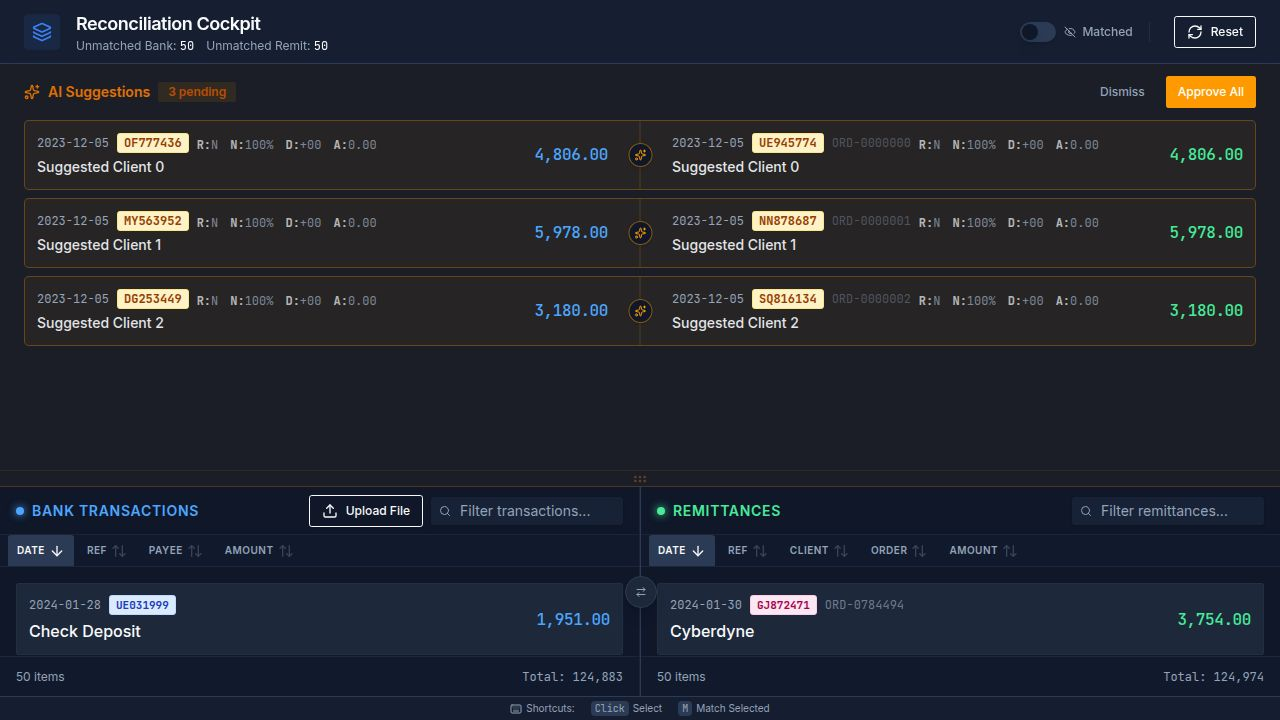
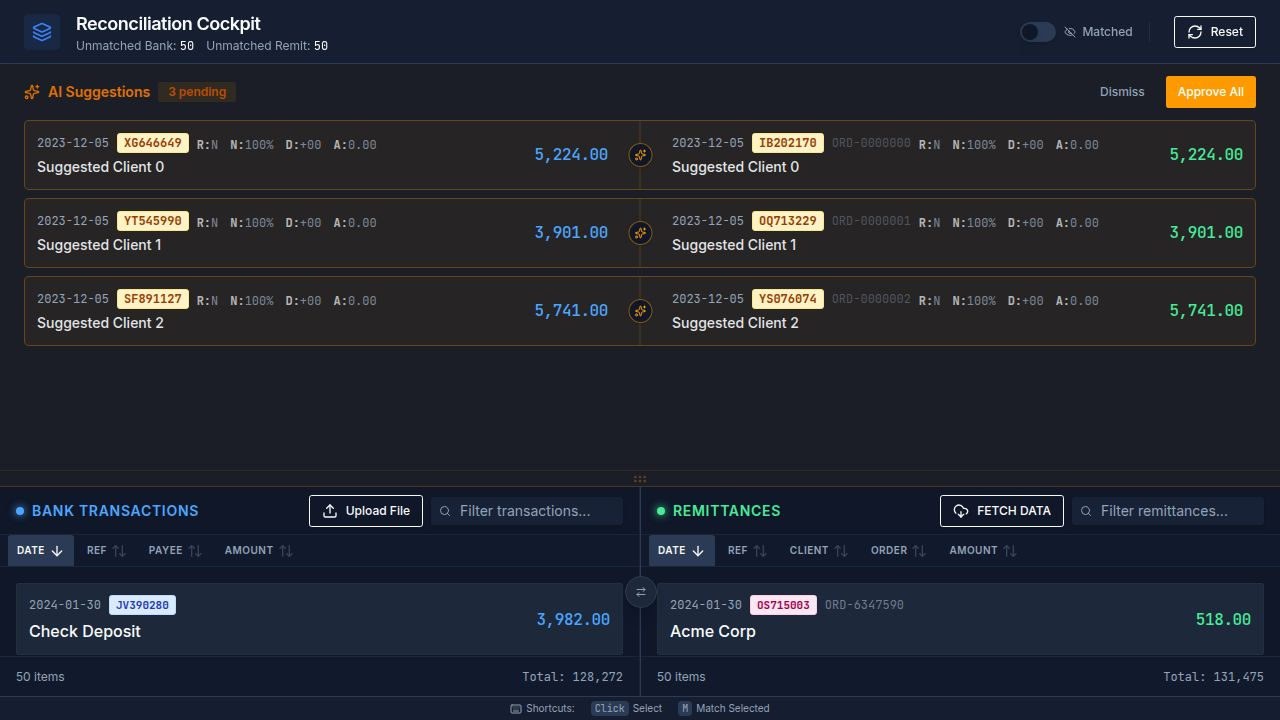
Add a fetch data button with a 10-minute cooldown to remittances
Introduce a "FETCH DATA" button to the Remittances panel with a 10-minute cooldown, displaying a countdown timer and greyed out when inactive.

Replit-Commit-Author: Agent
Replit-Commit-Session-Id: 8f953d1d-8566-4fc2-8cf3-e9aa65790888
Replit-Commit-Checkpoint-Type: full_checkpoint
Replit-Commit-Event-Id: df2b809c-4940-4540-8eb2-ee13a49f935e
Replit-Commit-Screenshot-Url: https://storage.googleapis.com/screenshot-production-us-central1/7ce41716-fa3b-479a-b889-b6a6f0201227/8f953d1d-8566-4fc2-8cf3-e9aa65790888/Y9Aho3F
Replit-Helium-Checkpoint-Created: true

diff --git a/client/src/pages/reconciliation.tsx b/client/src/pages/reconciliation.tsx
@@ -1,6 +1,6 @@
 import React, { useState, useMemo, useEffect, useCallback } from 'react';
 import { motion, AnimatePresence } from 'framer-motion';
-import { Search, ArrowRightLeft, X, RefreshCw, Layers, Keyboard, Eye, EyeOff, CheckCircle2, ArrowUpDown, ArrowUp, ArrowDown, Sparkles, Check, ThumbsUp, ThumbsDown, XCircle, History, GripHorizontal, Unlink, Upload } from 'lucide-react';
+import { Search, ArrowRightLeft, X, RefreshCw, Layers, Keyboard, Eye, EyeOff, CheckCircle2, ArrowUpDown, ArrowUp, ArrowDown, Sparkles, Check, ThumbsUp, ThumbsDown, XCircle, History, GripHorizontal, Unlink, Upload, DownloadCloud } from 'lucide-react';
 import { generateMockData, BankTransaction, Remittance } from '../lib/mockData';
 import { cn } from '@/lib/utils';
 import { Button } from '@/components/ui/button';
@@ -488,6 +488,36 @@ export default function ReconciliationPage() {
   const [suggestionsHeight, setSuggestionsHeight] = useState(350);
   const [isResizingSuggestions, setIsResizingSuggestions] = useState(false);
 
+  // Fetch Data Button State
+  const [fetchDataCooldown, setFetchDataCooldown] = useState<number | null>(null);
+
+  useEffect(() => {
+    if (fetchDataCooldown === null) return;
+
+    if (fetchDataCooldown <= 0) {
+      setFetchDataCooldown(null);
+      return;
+    }
+
+    const timer = setInterval(() => {
+      setFetchDataCooldown(prev => (prev !== null && prev > 0 ? prev - 1 : null));
+    }, 1000);
+
+    return () => clearInterval(timer);
+  }, [fetchDataCooldown]);
+
+  const handleFetchData = () => {
+    // Start 10 minute cooldown (600 seconds)
+    setFetchDataCooldown(600);
+    // Logic to actually fetch data would go here
+  };
+
+  const formatCooldown = (seconds: number) => {
+    const mins = Math.floor(seconds / 60);
+    const secs = seconds % 60;
+    return `${mins}:${secs.toString().padStart(2, '0')}`;
+  };
+
   useEffect(() => {
     if (!isResizingSuggestions) return;
 
@@ -935,14 +965,35 @@ export default function ReconciliationPage() {
           <div className="h-12 border-b border-border/40 flex items-center px-4 gap-2 bg-background/50">
              <div className="w-2 h-2 rounded-full bg-remit shadow-[0_0_8px_var(--color-remit)]" />
              <span className="text-sm font-semibold text-remit uppercase tracking-wider whitespace-nowrap">Remittances</span>
-             <div className="ml-auto relative w-48">
-                <Search className="absolute left-2 top-1/2 -translate-y-1/2 w-3 h-3 text-muted-foreground" />
-                <Input 
-                  className="h-7 text-xs pl-7 bg-muted/30 border-transparent focus:bg-background" 
-                  placeholder="Filter remittances..." 
-                  value={remitFilter}
-                  onChange={(e) => setRemitFilter(e.target.value)}
-                />
+             <div className="ml-auto flex items-center gap-2">
+                <Button 
+                  size="sm" 
+                  variant={fetchDataCooldown !== null ? "secondary" : "outline"}
+                  className={cn(
+                    "h-7 text-xs gap-2 min-w-[100px] transition-all duration-300",
+                    fetchDataCooldown !== null && "text-muted-foreground bg-muted cursor-not-allowed"
+                  )}
+                  onClick={handleFetchData}
+                  disabled={fetchDataCooldown !== null}
+                >
+                  {fetchDataCooldown !== null ? (
+                    <span className="font-mono">{formatCooldown(fetchDataCooldown)}</span>
+                  ) : (
+                    <>
+                      <DownloadCloud className="w-3 h-3" />
+                      FETCH DATA
+                    </>
+                  )}
+                </Button>
+                <div className="relative w-48">
+                  <Search className="absolute left-2 top-1/2 -translate-y-1/2 w-3 h-3 text-muted-foreground" />
+                  <Input 
+                    className="h-7 text-xs pl-7 bg-muted/30 border-transparent focus:bg-background" 
+                    placeholder="Filter remittances..." 
+                    value={remitFilter}
+                    onChange={(e) => setRemitFilter(e.target.value)}
+                  />
+                </div>
              </div>
           </div>
 
